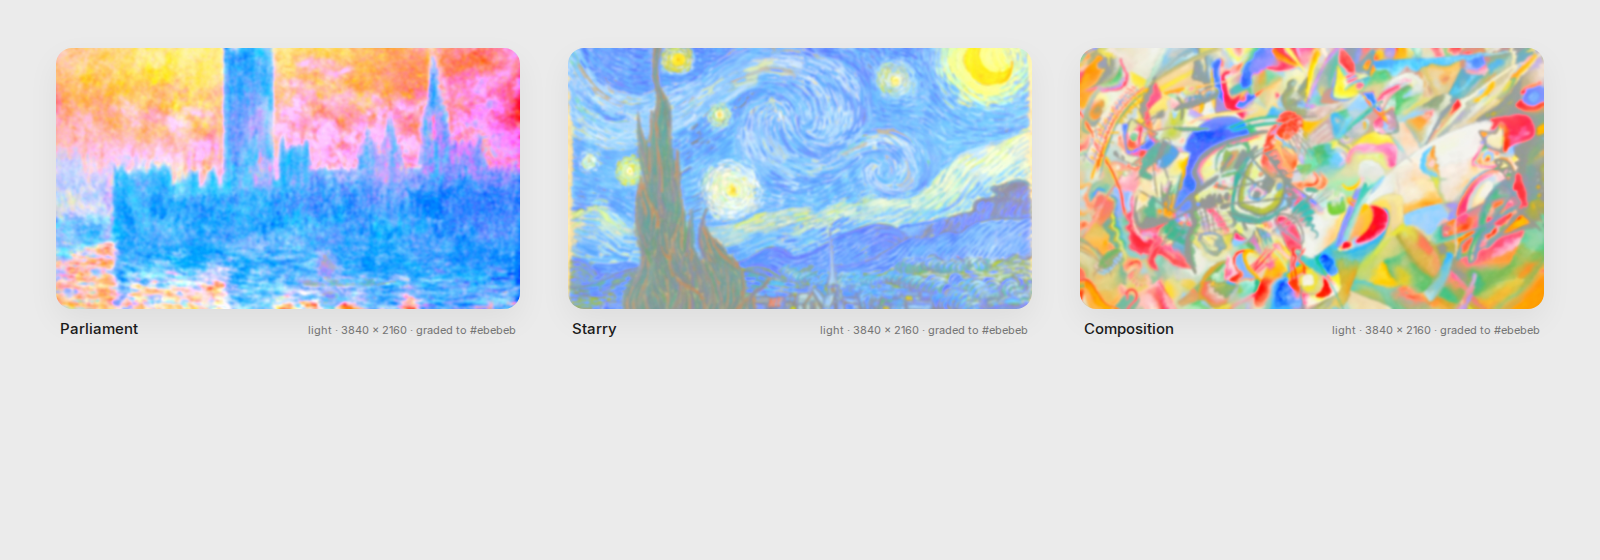
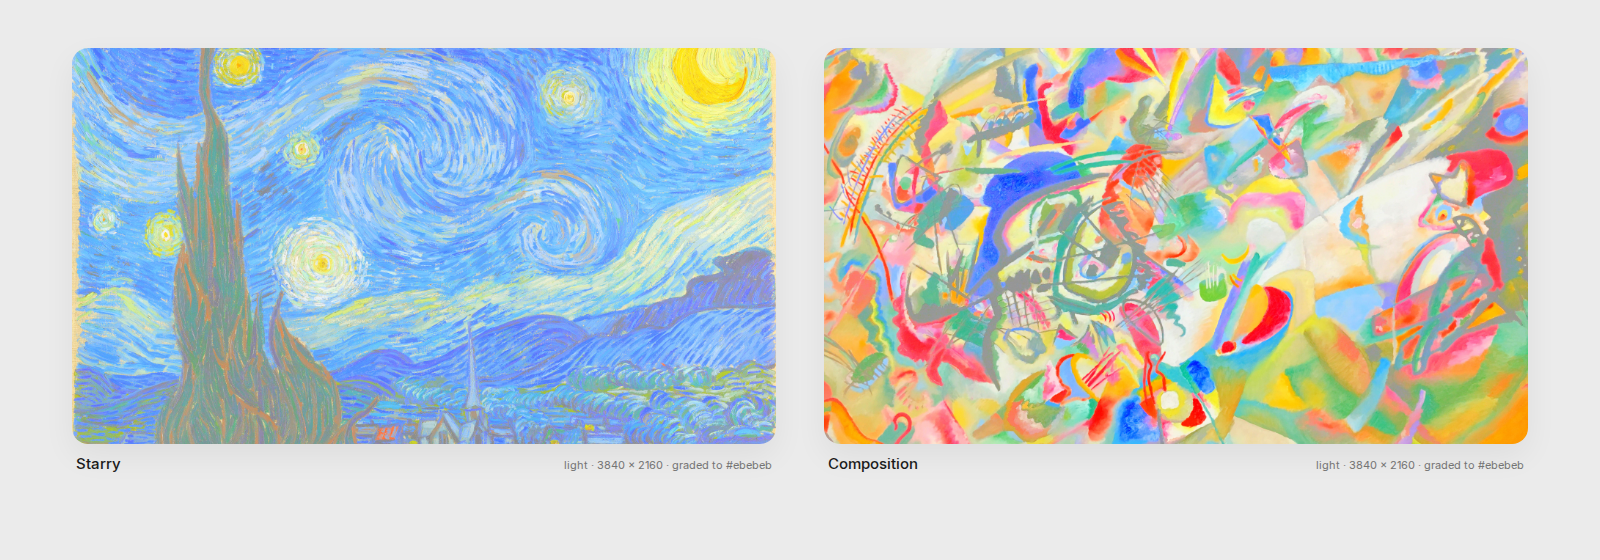
Backgrounds at native 4K, no blur; Files window gets its insets
Only sources at 3840 wide or more ship, so a 4K screen never upscales:
Van Gogh's Starry Night (5000 × 3959) and Kandinsky's Composition VII
(4032 × 3022). Monet's Parliament (2145 wide) is dropped and the grader
now refuses a source under 3840 × 2160 after the 16:9 crop. No blur by
default; --blur adds one, --quality sets the JPEG quality (88).

The desktop preview puts Files in the wide bottom slot with 24px insets,
40px rows and a 224px sidebar, and the terminal on the right where the
battery popup overlaps a quiet surface instead of the folder grid.

Claude-Session: https://claude.ai/code/session_017caxMJD9sdbPw1WF3LGrYR

diff --git a/tools/previews/build.py b/tools/previews/build.py
@@ -81,8 +81,8 @@ def tone(root, light):
     return dict(light=light, bg=c["background"], raised=c["lighter_background"], ground=c["dark_background"], fg=c["foreground"], muted=c["muted"],
                 accent=c["accent"], attn=c["attention"], red=c["red"], green=c["green"], yellow=c["yellow"], blue=c["blue"], magenta=c["magenta"], cyan=c["cyan"],
                 bright_fg=c["bright_foreground"], selection=c["selection"], ansi=[c[k] for k in ("background","red","green","yellow","blue","magenta","cyan","foreground","muted","bright_red","bright_green","bright_yellow","bright_blue","bright_magenta","bright_cyan","bright_foreground")],
-                wall=root / ("light/backgrounds/1-parliament.jpg" if light else "backgrounds/1-parliament.jpg"),
-                walls=[(n, root / (("light/" if light else "") + f"backgrounds/{n}")) for n in ("1-parliament.jpg", "2-starry.jpg", "3-composition.jpg")],
+                wall=root / ("light/backgrounds/1-starry.jpg" if light else "backgrounds/1-starry.jpg"),
+                walls=[(n, root / (("light/" if light else "") + f"backgrounds/{n}")) for n in ("1-starry.jpg", "2-composition.jpg")],
                 wx=(wx["background"], wx["text"], wx["muted"], wx.get("background-end", wx["background"])),
                 pw=(pw["background"], pw["text"], pw["muted"], pw.get("background-end", pw["background"])),
                 chip=(ch["attention-fill"], ch["attention-text"]),
@@ -186,7 +186,7 @@ def widgets(t):
 <div class="pills"><span class="l">Power profile</span><div><em>{ic("eco")}Saver</em><em class="on">{ic("balance")}Balanced</em><em>{ic("bolt")}Performance</em></div></div></div>''',
      "media": f'''<div class="card" style="width:352px;gap:24px"><div class="now"><div class="art" style="background:url('file://{t["walls"][1][1]}') 30% 40%/200% auto"></div><div class="tt"><b>The Visit</b><i>Agar Agar</i><div class="tr"><span class="b">{ic("prev",20)}</span><span class="play">{ic("pause",20)}</span><span class="b">{ic("next",20)}</span></div></div></div>
 <div class="rail" style="gap:16px"><div class="hair"><i style="width:56%"></i></div><div class="lbl">2:22<span>-1:48</span></div></div></div>''',
-     "mood": f'''<div class="card" style="width:352px;gap:16px"><div class="mood"><span style="background:url('file://{t["walls"][0][1]}') 10% 20%/180% auto"></span><span style="background:url('file://{t["walls"][1][1]}') 70% 30%/180% auto"></span><span style="background:url('file://{t["walls"][1][1]}') 20% 80%/180% auto"></span><span style="background:url('file://{t["walls"][0][1]}') 80% 70%/180% auto"></span></div><div class="hd" style="height:auto"><div>Backgrounds<div style="font-size:14px;color:var(--muted);font-weight:400;margin-top:4px">Graded to the ground</div></div><span>3 per tone</span></div></div>''',
+     "mood": f'''<div class="card" style="width:352px;gap:16px"><div class="mood"><span style="background:url('file://{t["walls"][0][1]}') 10% 20%/180% auto"></span><span style="background:url('file://{t["walls"][1][1]}') 70% 30%/180% auto"></span><span style="background:url('file://{t["walls"][1][1]}') 20% 80%/180% auto"></span><span style="background:url('file://{t["walls"][0][1]}') 80% 70%/180% auto"></span></div><div class="hd" style="height:auto"><div>Backgrounds<div style="font-size:14px;color:var(--muted);font-weight:400;margin-top:4px">Graded to the ground</div></div><span>2 per tone</span></div></div>''',
      "notes": f'''<div class="card notes" style="width:352px;gap:24px"><div class="hd" style="justify-content:flex-start">Quick note</div><div class="page">Leave a little room for the unexpected.</div><span class="chip2">Draft · This session</span></div>''',
      "files": f'''<div class="card" style="width:352px;gap:16px"><div class="hd" style="height:auto"><div style="display:flex;gap:8px;align-items:center">{ic("chevron_left",20)}{ic("chevron_right",20)}<span style="height:32px;padding:0 16px;border-radius:16px;background:rgba(var(--fg-rgb),var(--a1));display:flex;align-items:center;gap:8px;font-size:14px;font-weight:400">{ic("home",16)}Home</span></div>{ic("search",20)}</div>
 <div class="files"><div class="sb"><div class="on">{ic("home",16)}Home</div><div>{ic("clock",16)}Recent</div><div>{ic("star",16)}Starred</div><div>{ic("trash",16)}Trash</div></div>
@@ -259,10 +259,10 @@ body{{background:url('file://{t["wall"]}') center/cover}}
 .obs .tag{{display:inline-flex;align-items:center;height:24px;padding:0 12px;border-radius:16px;background:rgba(var(--acc-rgb),.12);color:var(--accent);font-size:13px;font-weight:500;margin-right:8px}}
 .obs code{{font-family:'JetBrains Mono';font-size:13px;background:rgba(var(--fg-rgb),var(--a1));border-radius:8px;padding:2px 6px}}.obs blockquote{{margin:12px 0;padding-left:16px;border-left:2px solid var(--accent);color:var(--muted)}}
 .obs .status{{position:absolute;left:16px;right:16px;bottom:12px;height:32px;display:flex;align-items:center;justify-content:flex-end;gap:16px;font-size:11px;color:var(--muted)}}
-.files{{display:grid;grid-template-columns:184px 1fr;height:100%}}.files .sb{{padding:16px 8px;display:flex;flex-direction:column;gap:2px;background:var(--raised)}}
-.si{{height:32px;border-radius:16px;padding:0 12px;display:flex;align-items:center;gap:10px;color:var(--fg)}}.si.on{{background:rgba(var(--fg-rgb),var(--a3))}}
-.files .main{{padding:16px 20px}}.files .top{{display:flex;align-items:center;gap:12px;margin-bottom:24px}}.files .top .pathf{{height:32px;flex:1;border-radius:16px;background:rgba(var(--fg-rgb),var(--a1));display:flex;align-items:center;padding:0 16px;gap:8px}}
-.fgrid{{display:grid;grid-template-columns:repeat(4,1fr);gap:24px 16px}}.fd{{display:flex;flex-direction:column;align-items:center;gap:8px;font-size:11px}}
+.files{{display:grid;grid-template-columns:224px 1fr;height:100%}}.files .sb{{padding:24px 16px;display:flex;flex-direction:column;gap:4px;background:var(--raised)}}
+.si{{height:40px;border-radius:20px;padding:0 16px;display:flex;align-items:center;gap:12px;color:var(--fg)}}.si.on{{background:rgba(var(--fg-rgb),var(--a3))}}
+.files .main{{padding:24px}}.files .top{{display:flex;align-items:center;gap:12px;margin-bottom:24px}}.files .top .pathf{{height:40px;flex:1;border-radius:20px;background:rgba(var(--fg-rgb),var(--a1));display:flex;align-items:center;padding:0 16px;gap:8px}}
+.fgrid{{display:grid;grid-template-columns:repeat(6,1fr);gap:24px 16px}}.fd{{display:flex;flex-direction:column;align-items:center;gap:8px;font-size:11px}}
 </style></head><body>
 {bar(t)}
 <div class="win focus" style="left:24px;top:56px;width:996px;height:592px">
@@ -281,6 +281,9 @@ body{{background:url('file://{t["wall"]}') center/cover}}
   <div class="status"><span>212 words</span><span>1,280 characters</span></div></div></div>
 </div>
 <div class="win" style="left:24px;top:656px;width:996px;height:332px">
+  <div class="files"><div class="sb">{side}</div><div class="main"><div class="top">{ic("chevron_left",20)}{ic("chevron_right",20)}<div class="pathf">{ic("home",16)}Home</div>{ic("search",20)}</div><div class="fgrid">{fgrid}</div></div></div>
+</div>
+<div class="win" style="left:1028px;top:56px;width:748px;height:932px">
   <div class="term mono"><span class="p">❯</span> omarchy theme set marvin
 <span class="c">Theme set. Bar 32 · radius 24 · inset 24 · type 12/14/16/18/24/56</span>
 <span class="p">❯</span> omarchy theme list
@@ -291,9 +294,6 @@ body{{background:url('file://{t["wall"]}') center/cover}}
 <span style="color:{t["green"]}">ok</span>  geometry identity    <span class="c">94 tokens</span>
 <span style="color:{t["green"]}">ok</span>  install → revert     <span class="c">byte for byte</span>
 <span class="p">❯</span> <span style="display:inline-block;width:8px;height:16px;background:var(--fg);vertical-align:-3px"></span></div>
-</div>
-<div class="win" style="left:1028px;top:56px;width:748px;height:932px">
-  <div class="files"><div class="sb">{side}</div><div class="main"><div class="top">{ic("chevron_left",20)}{ic("chevron_right",20)}<div class="pathf">{ic("home",16)}Home</div>{ic("search",20)}</div><div class="fgrid">{fgrid}</div></div></div>
 </div>
 <div style="position:absolute;right:16px;top:48px">{w["power"]}</div>
 </body></html>"""
@@ -320,7 +320,7 @@ def backgrounds(t, fonts):
 <div class="cap"><b>{n.split('.')[0][2:].capitalize()}</b><span>{'light' if t['light'] else 'dark'} · 3840 × 2160 · graded to {t['ground']}</span></div></div>""" for n, p in t["walls"])
     return f"""<!doctype html><html><head><meta charset="utf-8"><style>{font_face(fonts)}{vars_css(t)}{BASE_CSS}
 html,body{{width:1600px;height:560px;overflow:hidden}}body{{background:{t["ground"]};padding:48px;display:flex;gap:48px;justify-content:center}}
-.bgtile{{display:flex;flex-direction:column;gap:12px}}.img{{width:464px;height:261px;border-radius:16px;box-shadow:0 12px 32px rgba(0,0,0,var(--sh))}}
+.bgtile{{display:flex;flex-direction:column;gap:12px}}.img{{width:704px;height:396px;border-radius:16px;box-shadow:0 12px 32px rgba(0,0,0,var(--sh))}}
 .cap{{display:flex;justify-content:space-between;align-items:baseline;padding:0 4px}}.cap b{{font-size:15px;font-weight:500}}.cap span{{font-size:11px;color:var(--muted)}}
 </style></head><body>{tiles}</body></html>"""
 

diff --git a/tools/background.py b/tools/background.py
@@ -12,7 +12,7 @@ Outputs backgrounds/<n>-<name>.jpg (dark) and light/backgrounds/<n>-<name>.jpg.
 Needs Pillow and numpy.
 
 Grading, per tone:
-  1. a light blur (--blur, a fraction of the height; 0.004 by default, 0 for none)
+  1. no blur by default (--blur, a fraction of the height, if you want one)
   2. push saturation up a little, so the field stays rich under the grading
   3. mix toward the theme ground colour, then clamp luminance into a band that
      keeps the bar (dark #161616 / light #f5f5f5) readable over it
@@ -65,16 +65,18 @@ def synthesize(palette, seed):
 
 def prepare_source(path):
     im = Image.open(path).convert("RGB")
-    # cover-crop to 16:9 at output resolution: the painting keeps its brushwork
+    # cover-crop to 16:9 at the source's own resolution; never upscale
     w, h = im.size
-    target = WORK_W / WORK_H
+    target = OUT_W / OUT_H
     if w / h > target:
         nw = int(h * target); im = im.crop(((w - nw) // 2, 0, (w - nw) // 2 + nw, h))
     else:
         nh = int(w / target); im = im.crop((0, (h - nh) // 2, w, (h - nh) // 2 + nh))
+    if im.size[0] < OUT_W or im.size[1] < OUT_H:
+        sys.exit(f"{path}: {w}x{h} crops to {im.size[0]}x{im.size[1]}, under {OUT_W}x{OUT_H}; a 4K screen would have to upscale it. Find a larger reproduction.")
     return im.resize((OUT_W, OUT_H), Image.LANCZOS)
 
-def grade(im, tone, seed, blur=0.004):
+def grade(im, tone, seed, blur=0.0):
     t = TONES[tone]
     if im.size != (OUT_W, OUT_H):
         im = im.resize((OUT_W, OUT_H), Image.BICUBIC)   # synthesized fields come in small
@@ -109,7 +111,8 @@ def main():
     p.add_argument("--name", help="output name; defaults to the palette name or the source stem")
     p.add_argument("--index", type=int, default=1, help="ordering prefix in backgrounds/")
     p.add_argument("--seed", type=int, default=7)
-    p.add_argument("--blur", type=float, default=0.004, help="Gaussian radius as a fraction of the height; 0 for none")
+    p.add_argument("--quality", type=int, default=88, help="JPEG quality (default 88)")
+    p.add_argument("--blur", type=float, default=0.0, help="Gaussian radius as a fraction of the height; 0 (default) for none")
     args = p.parse_args()
     if not args.source and not args.palette:
         p.error("give --source or --palette")
@@ -120,7 +123,7 @@ def main():
         out = root / t["out"] / f"{args.index}-{name}.jpg"
         out.parent.mkdir(parents=True, exist_ok=True)
         img = grade(base, tone, args.seed, args.blur)
-        img.save(out, "JPEG", quality=88, optimize=True, progressive=True)
+        img.save(out, "JPEG", quality=args.quality, optimize=True, progressive=True)
         L = luminance(np.asarray(img, dtype=np.float32) / 255)
         print(f"{out.relative_to(root)}  {img.size[0]}x{img.size[1]}  L p1/p50/p99 = {np.percentile(L,1):.3f}/{np.percentile(L,50):.3f}/{np.percentile(L,99):.3f}  {out.stat().st_size//1024} KB")
 

diff --git a/backgrounds/README.md b/backgrounds/README.md
@@ -1,29 +1,32 @@
 # Backgrounds
 
-Three public-domain paintings, lightly softened and graded to each
-tone by `tools/background.py`. The same three files exist under
-`light/backgrounds/`, graded to the light ground.
+Two public-domain paintings, unblurred, graded to each tone by
+`tools/background.py`. The same files exist under `light/backgrounds/`,
+graded to the light ground. Every source is at least 3840 wide, so a 4K
+screen shows the painting at full resolution with no upscaling.
 
-| File | Painting | Date | Status |
-|------|----------|------|--------|
-| `1-parliament.jpg` | Claude Monet, *The Houses of Parliament, Sunset* | 1900–1903 | public domain (Monet d. 1926) |
-| `2-starry.jpg` | Vincent van Gogh, *The Starry Night* | 1889 | public domain (van Gogh d. 1890) |
-| `3-composition.jpg` | Wassily Kandinsky, *Composition VII* | 1913 | public domain (Kandinsky d. 1944; published before 1930) |
+| File | Painting | Date | Source size | Status |
+|------|----------|------|-------------|--------|
+| `1-starry.jpg` | Vincent van Gogh, *The Starry Night* | 1889 | 5000 × 3959 | public domain (van Gogh d. 1890) |
+| `2-composition.jpg` | Wassily Kandinsky, *Composition VII* | 1913 | 4032 × 3022 | public domain (Kandinsky d. 1944; published before 1930) |
 
 The reproductions were taken from the style images vendored in
 [Kautenja/a-neural-algorithm-of-artistic-style](https://github.com/Kautenja/a-neural-algorithm-of-artistic-style)
-(`img/styles/`), which carries them at 2145 × 1830, 5000 × 3959 and
-4032 × 3022. Faithful photographs of public-domain paintings carry no new
-copyright, so the graded files here are under this repository's MIT licence.
+(`img/styles/`). Faithful photographs of public-domain paintings carry no
+new copyright, so the graded files here are under this repository's MIT
+licence.
 
-Grading, per tone, at full 3840 × 2160: a Gaussian blur of 0.4 % of the
-height (about 9 px; `--blur 0` for none), saturation × 1.3,
-a 5–6 % mix toward the theme ground, luminance clamped into a band the bar
-stays readable over (dark 0.02–0.34, light 0.30–0.90), then fine grain
-against banding. Reproducible:
+Grading, per tone, at full 3840 × 2160: cover-crop to 16:9, no blur
+(`--blur` adds one), saturation × 1.3, a 5–6 % mix toward the theme
+ground, luminance clamped into a band the bar stays readable over (dark
+0.02–0.34, light 0.30–0.90), then fine grain against banding. Output is
+JPEG at quality 88, about 1–2 MB each; raise `--quality` if you want more.
+Reproducible:
 
 ```
-tools/background.py --source houses-of-parliament.jpg --name parliament --index 1
-tools/background.py --source the-starry-night.jpg      --name starry      --index 2
-tools/background.py --source composition-vii.jpg       --name composition --index 3
+tools/background.py --source the-starry-night.jpg --name starry      --index 1
+tools/background.py --source composition-vii.jpg  --name composition --index 2
 ```
+
+The tool refuses a source smaller than 3840 × 2160 after the crop, so
+nothing in this set is ever upscaled.

diff --git a/README.md b/README.md
@@ -233,26 +233,27 @@ travels with them in `plugins/LICENSE-omarchy`.
 ## Backgrounds
 
 The wallpaper is the ground the whole system sits on, so it is graded, not
-chosen: a painting softened only slightly, so the brushwork stays, saturation
+chosen: a painting left sharp, so the brushwork stays, saturation
 pushed up a little so the field stays rich, mixed lightly toward the theme
 ground, luminance clamped into a band the bar stays readable over, grain
 added against banding.
 
-Three paintings ship, chosen for the palette they share with the widgets —
-sky blue, navy, pale yellow, warm orange — and for colour that carries at
-desktop scale:
+Two paintings ship, chosen for the palette they share with the widgets —
+sky blue, navy, pale yellow, warm orange — and because their reproductions
+are at least 3840 wide, so a 4K screen shows them at full resolution with
+no upscaling:
 
-| | Painting | Why |
-|---|---|---|
-| 1 | Claude Monet, *The Houses of Parliament, Sunset* (1900–03) | blue and orange against violet; the weather card's blues and the sunrise |
-| 2 | Vincent van Gogh, *The Starry Night* (1889) | navy and pale yellow; the battery card and the draft chip |
-| 3 | Wassily Kandinsky, *Composition VII* (1913) | every colour in the system at once |
+| | Painting | Source size | Why |
+|---|---|---|---|
+| 1 | Vincent van Gogh, *The Starry Night* (1889) | 5000 × 3959 | navy and pale yellow; the battery card and the draft chip |
+| 2 | Wassily Kandinsky, *Composition VII* (1913) | 4032 × 3022 | every colour in the system at once |
 
-All three are in the public domain; sources and the grading recipe are in
-`backgrounds/README.md`. To grade another painting:
+Both are in the public domain; sources and the grading recipe are in
+`backgrounds/README.md`. To grade another painting (it must be at least
+3840 × 2160 after a 16:9 crop; the tool refuses smaller sources):
 
 ```
-tools/background.py --source path/to/painting.jpg --name parliament --index 1
+tools/background.py --source path/to/painting.jpg --name starry --index 1
 ```
 
 It writes both tones. Needs Pillow and numpy.

diff --git a/docs/principles.md b/docs/principles.md
@@ -210,7 +210,7 @@ the short step and workspaces get the long one, the inverse of upstream.
 
 ## Backgrounds
 
-Confirmed. A famous painting, public domain, softened a little into a
+Confirmed. A famous painting, public domain, unblurred, graded into a
 colour field, graded so it complements the palette: saturation up (1.5,
 the reference's imagery is rich, not pastel), mixed lightly toward the
 ground, luminance in a band the bar reads over (dark 0.02–0.34, light
